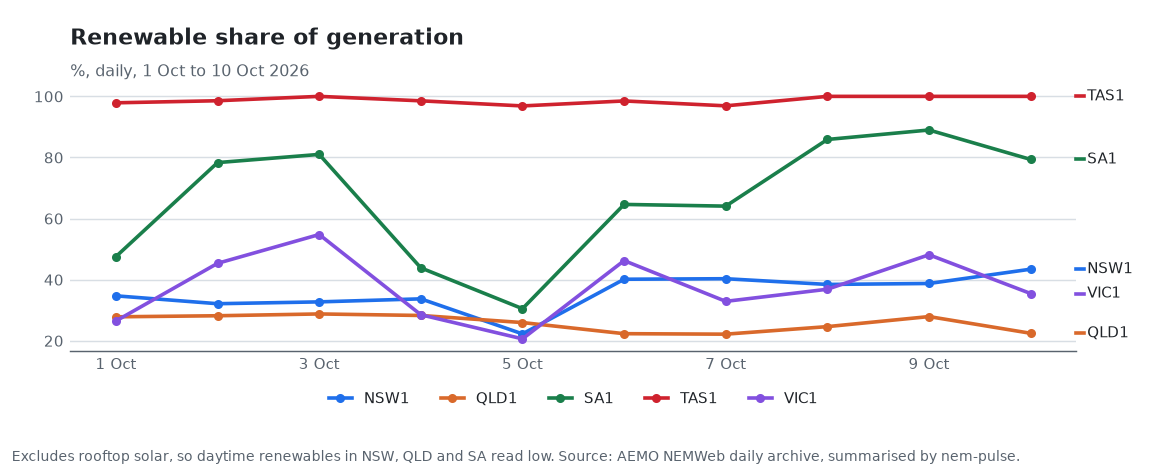
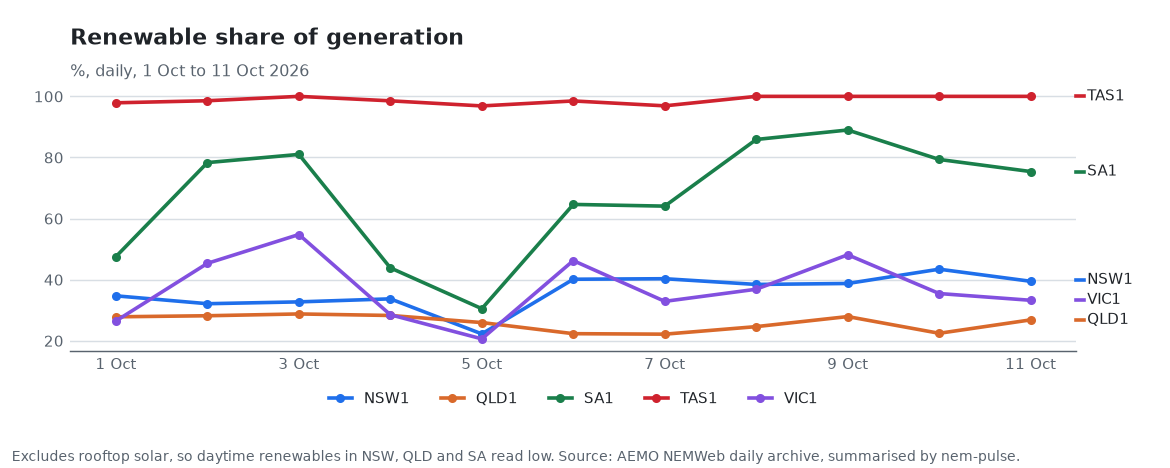
Refresh Latest and charts with the bot's new days; plain record label

diff --git a/src/nem_pulse/records.py b/src/nem_pulse/records.py
@@ -12,7 +12,7 @@ RECORD_METRICS = {
     "max_demand_mw": ("max", "Highest daily peak demand"),
     "max_price": ("max", "Highest price"),
     "min_price": ("min", "Lowest price"),
-    "negative_intervals": ("max", "Most negative-price intervals"),
+    "negative_intervals": ("max", "Most intervals with a negative price"),
 }
 
 

diff --git a/README.md b/README.md
@@ -22,22 +22,22 @@ _Updated for 2026-10-11 (NEM time)._
 | NSW1 | $134/MWh | 39% | 504 g/kWh | 34 |
 | QLD1 | $109/MWh | 27% | 620 g/kWh | 96 |
 | VIC1 | $3/MWh | 33% | 772 g/kWh | 162 |
-| SA1 | $-28/MWh | 75% | 104 g/kWh | 164 |
+| SA1 | -$28/MWh | 75% | 104 g/kWh | 164 |
 | TAS1 | $6/MWh | 100% | 0 g/kWh | 140 |
 | NEM | $82/MWh | 38% | 573 g/kWh | 82 |
 
 ### Recent records
 
-- **2026-10-11** VIC1: lowest price (-365.2, previous best -148.4)
-- **2026-10-11** SA1: most negative-price intervals (164.0, previous best 158)
-- **2026-10-11** SA1: lowest price (-415.0, previous best -294.4)
-- **2026-10-11** QLD1: highest solar share (16.3%, previous best 0.1592)
-- **2026-10-11** NSW1: most negative-price intervals (34.0, previous best 2)
-- **2026-10-11** NSW1: lowest price (-9.6, previous best -5.59)
-- **2026-10-11** NSW1: highest solar share (23.4%, previous best 0.2053)
-- **2026-10-11** NEM: most negative-price intervals (82.0, previous best 13)
-- **2026-10-11** NEM: lowest price (-71.6, previous best -9.51)
-- **2026-10-10** NSW1: lowest emissions intensity (465.1, previous best 488.4)
+- **2026-10-11** NEM: lowest price (-71.6 $/MWh, previous best -9.5 $/MWh)
+- **2026-10-11** NEM: most intervals with a negative price (82 intervals, previous best 13 intervals)
+- **2026-10-11** NSW1: lowest price (-9.6 $/MWh, previous best -5.6 $/MWh)
+- **2026-10-11** NSW1: most intervals with a negative price (34 intervals, previous best 2 intervals)
+- **2026-10-11** NSW1: highest solar share (23.4%, previous best 20.5%)
+- **2026-10-11** QLD1: highest solar share (16.3%, previous best 15.9%)
+- **2026-10-11** SA1: lowest price (-415.0 $/MWh, previous best -294.4 $/MWh)
+- **2026-10-11** SA1: most intervals with a negative price (164 intervals, previous best 158 intervals)
+- **2026-10-11** VIC1: lowest price (-365.2 $/MWh, previous best -148.4 $/MWh)
+- **2026-10-10** NEM: highest price (8,854.9 $/MWh, previous best 594.3 $/MWh)
 <!-- PULSE:END -->
 
 The AEMO daily archive is about two days behind the grid, so the newest day here is two days old. I found this when the first scheduled run asked for "yesterday" and got a 404.
